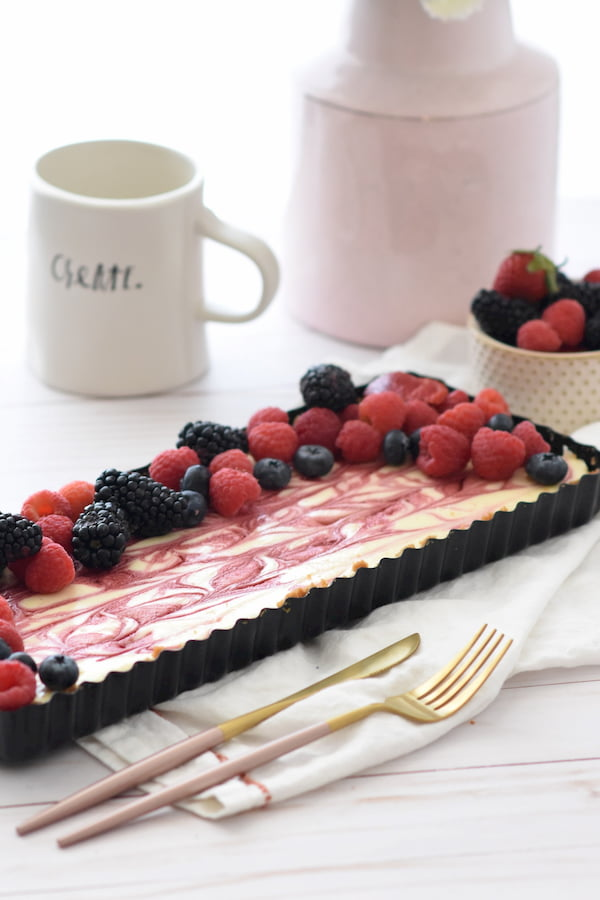
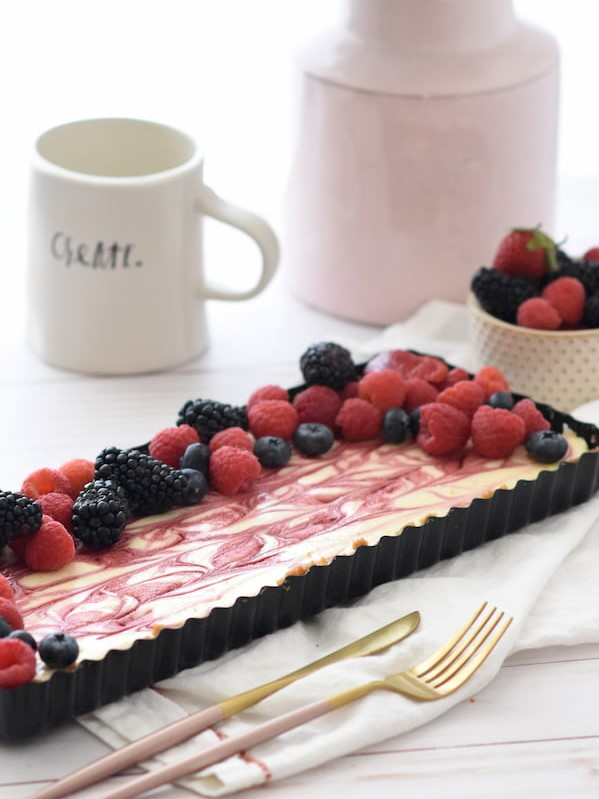
change photo size + fix nav overlay + copyright

diff --git a/style.css b/style.css
@@ -36,7 +36,7 @@ body{
     display: none;
     position: absolute;
     padding: 0;
-    top: 80px;
+    top: 55px;
     width: 100%;
     background-color: white;
 }
@@ -91,10 +91,10 @@ body{
     width: auto;
     height: 100%;
     float: right;
-    top:0px;
+    top:-30px;
     left:0;
     border-bottom: solid 2px white;
-    z-index: 2;
+    z-index: -1;
 }
 
 .contact-link:hover .nav-overlay{
@@ -259,6 +259,10 @@ opacity: 0;
 .item .description p:first-child{
     color: #Ba4D40;
     font-weight: bold;
+}
+
+.item .description p:last-child{
+    font-style: italic;
 }
 
 footer{
@@ -636,7 +640,9 @@ input[type=number]::-webkit-outer-spin-button {
     .copyrights{
         display: block;
         padding-left: 2.5%;
+        text-align: center;
     }
+    
     .copyrights div{
         display: block;
         float: none;

diff --git a/contact.html b/contact.html
@@ -155,7 +155,7 @@
       <div class="icon">Icons made by <a href="https://www.flaticon.com/authors/those-icons" title="Those Icons">Those
           Icons</a> &amp; <a href="https://www.flaticon.com/authors/freepik" title="Freepik">Freepik</a> from <a
           href="https://www.flaticon.com/" title="Flaticon">www.flaticon.com</a></div>
-      <div class="author">&copy; The very berry by Minh Hang Nguyen</div>
+      <div class="author">&copy; 2020 The very berry by Minh Hang Nguyen</div>
     </div>
   </footer>
 

diff --git a/index.html b/index.html
@@ -253,7 +253,7 @@
                     title="Those Icons">Those Icons</a> &amp; <a href="https://www.flaticon.com/authors/freepik"
                     title="Freepik">Freepik</a> from <a href="https://www.flaticon.com/"
                     title="Flaticon">www.flaticon.com</a></div>
-            <div class="author">&copy; The very berry by Minh Hang Nguyen</div>
+            <div class="author">&copy; 2020 The very berry by Minh Hang Nguyen</div>
         </div>
     </footer>
 
